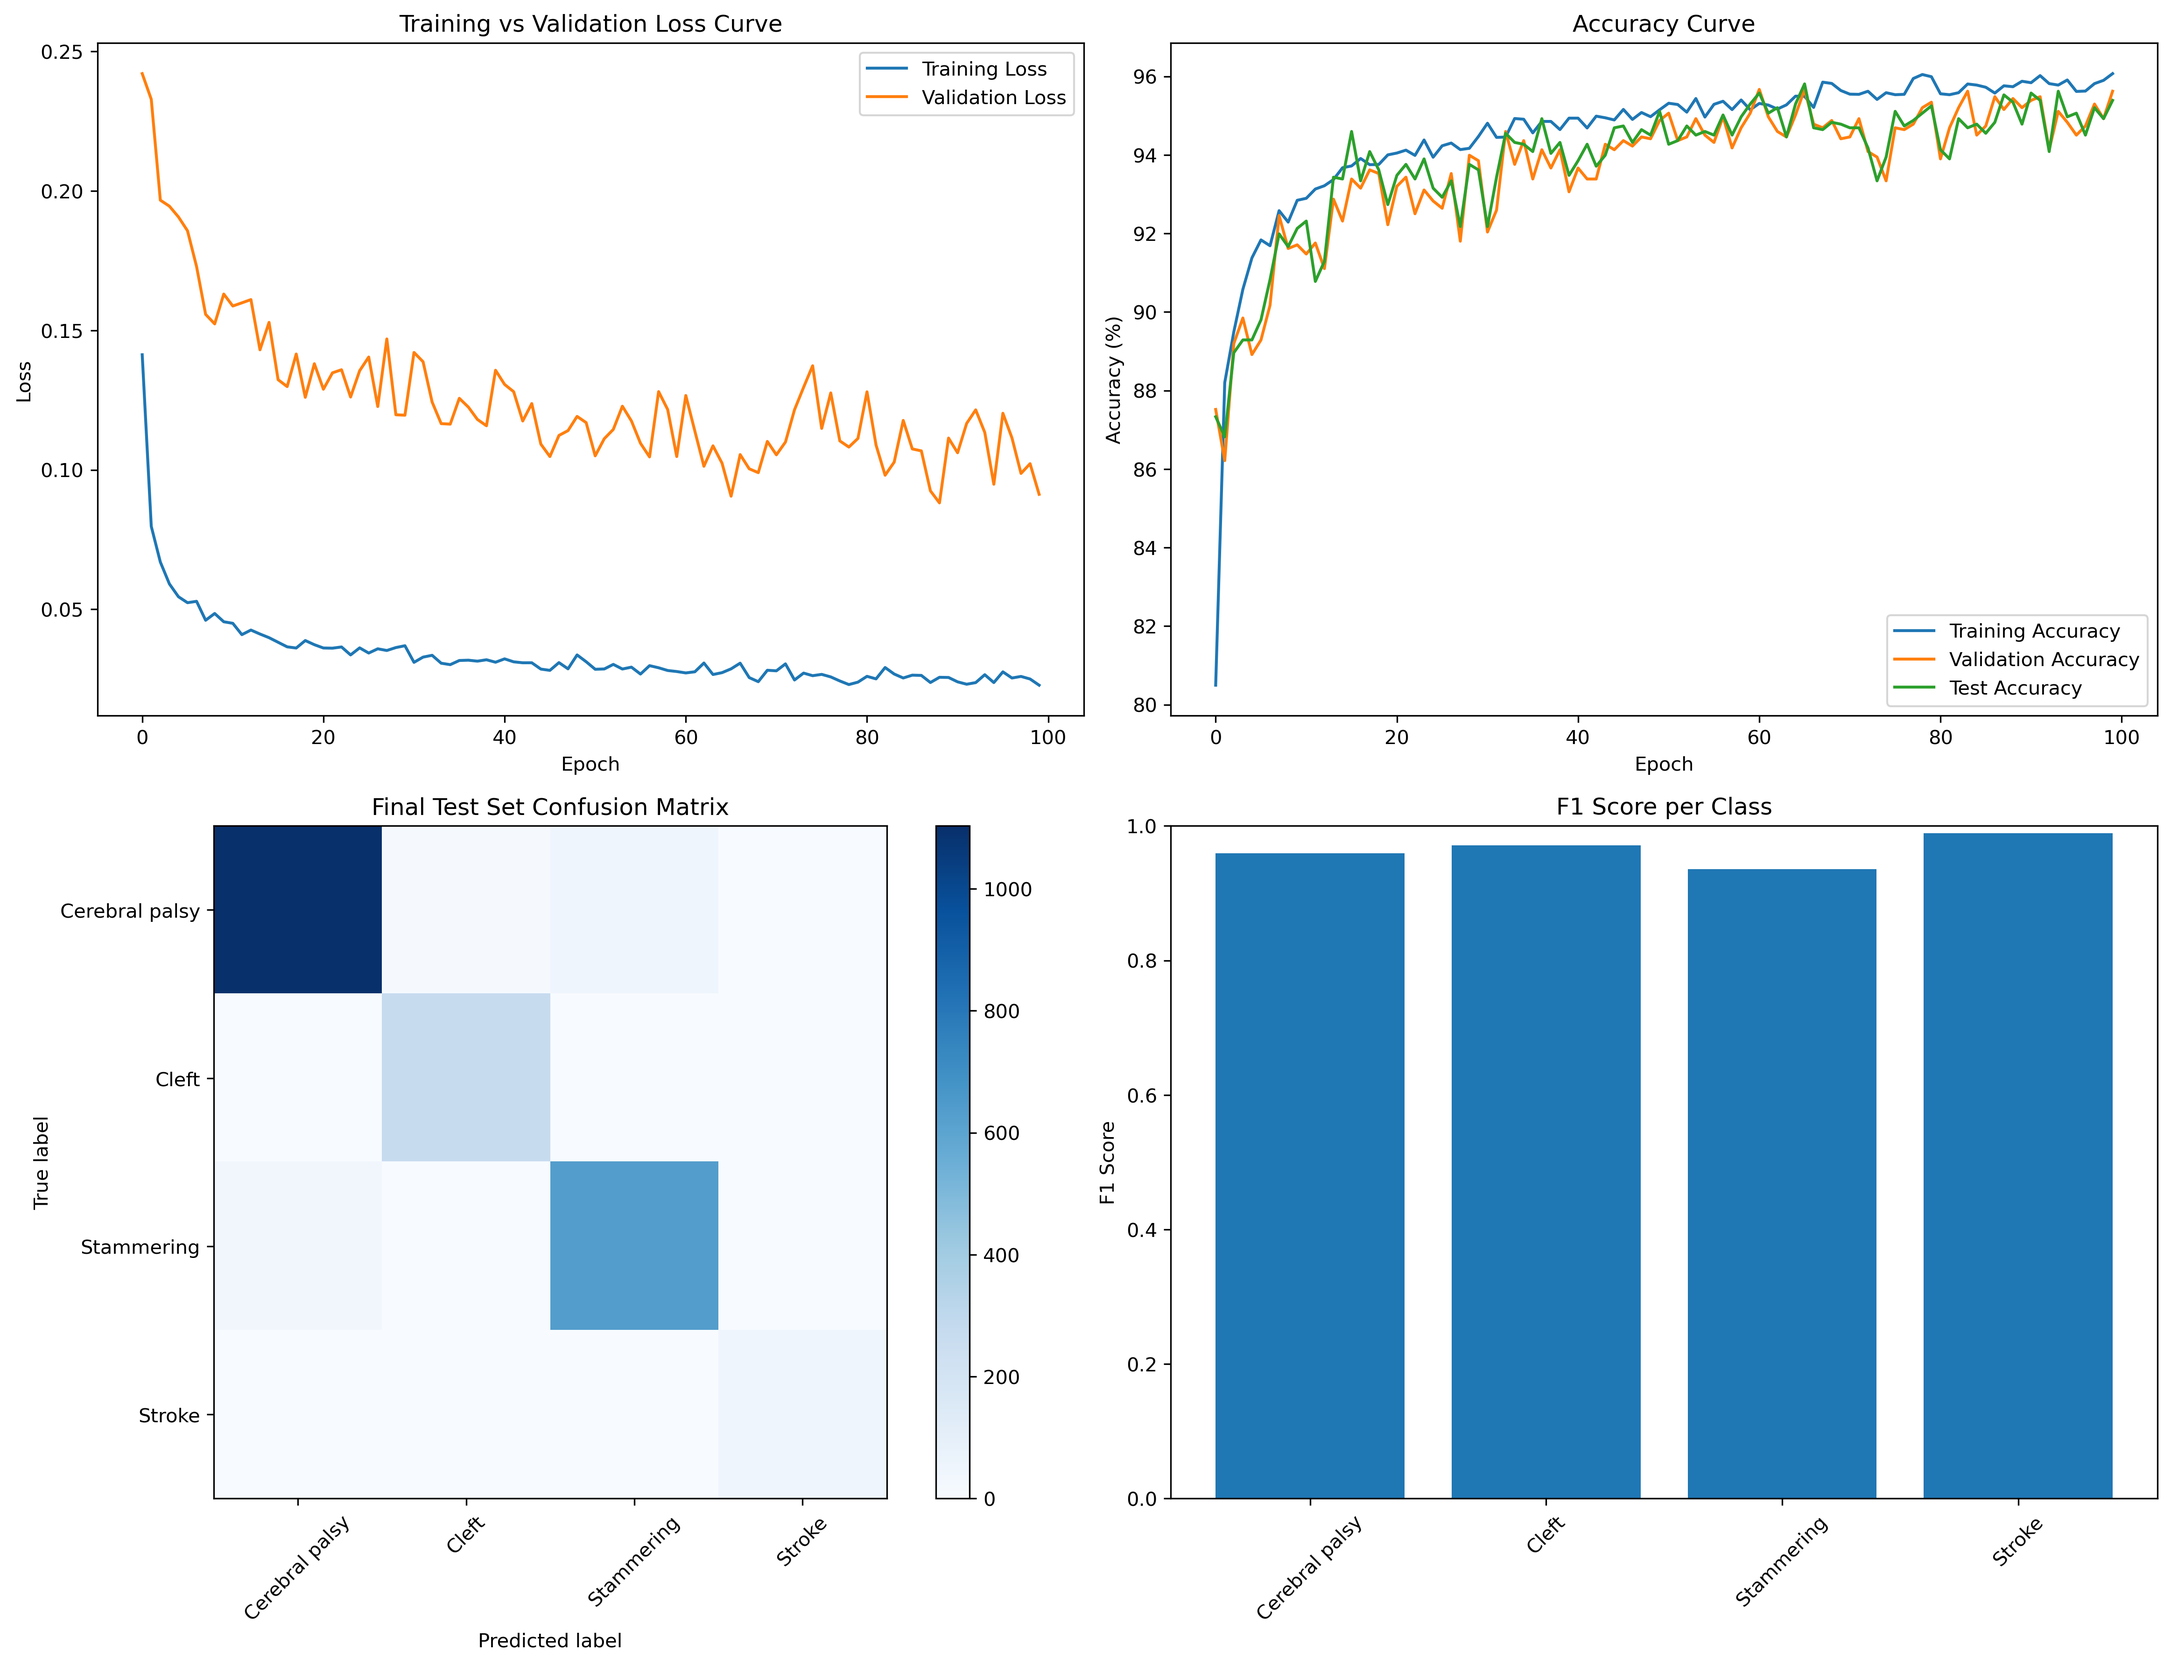
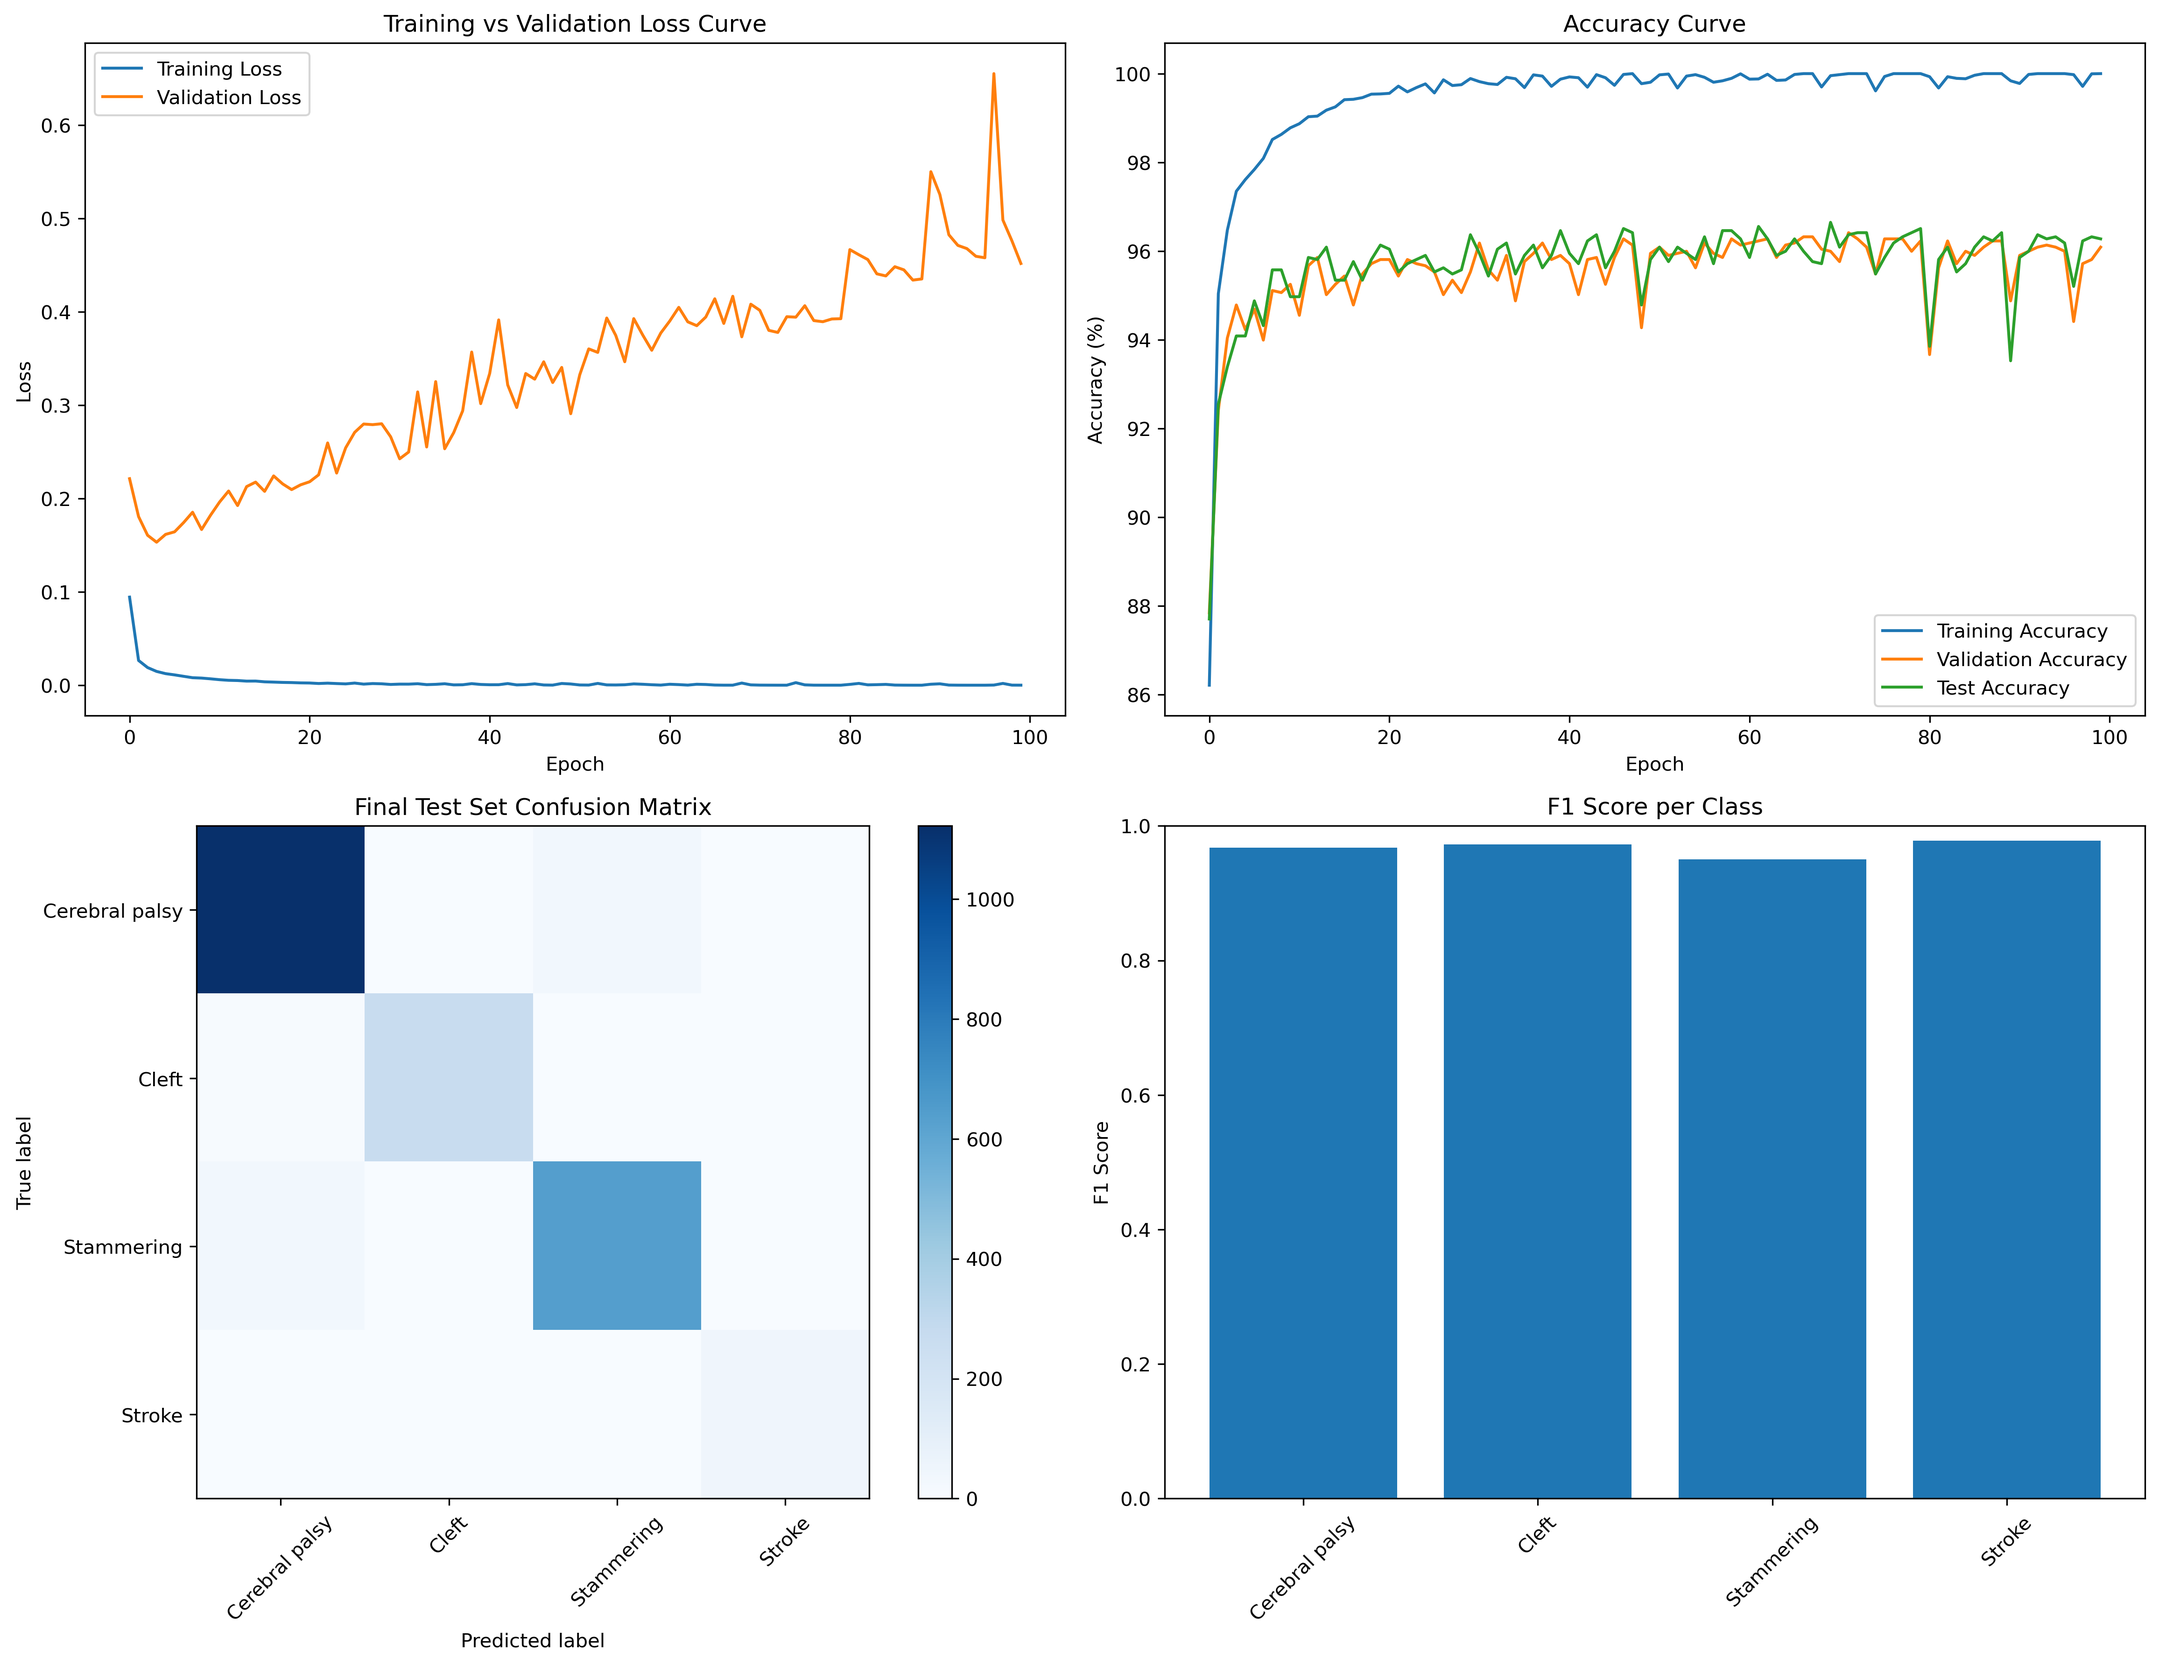
UGA NORMAL MLP

diff --git a/benchmark/mlp/UGAkan/uga_speech_classification.py b/benchmark/mlp/UGAkan/uga_speech_classification.py
@@ -178,9 +178,9 @@ class UGADataset(BaseDataset):
         return features, labels
 
 # MLP模型 - 适应四分类任务
-class MLP(nn.Module):
+class MLP_huge(nn.Module):
     def __init__(self, input_dim, hidden_size=128, num_classes=4):
-        super(MLP, self).__init__()
+        super(MLP_huge, self).__init__()
         self.fc1 = nn.Linear(input_dim, hidden_size)
         self.bn1 = nn.BatchNorm1d(hidden_size)
         self.relu = nn.ReLU()
@@ -200,6 +200,20 @@ class MLP(nn.Module):
         x = self.relu(x)
         x = self.dropout2(x)
         x = self.fc3(x)
+        return x
+
+# MLP模型
+class MLP(nn.Module):
+    def __init__(self, input_dim, hidden_size=64,num_classes=4):
+        super(MLP, self).__init__()
+        self.fc1 = nn.Linear(input_dim, hidden_size)
+        self.relu = nn.ReLU()
+        self.fc2 = nn.Linear(hidden_size, num_classes)  # 二分类输出
+
+    def forward(self, x):
+        x = self.fc1(x)
+        x = self.relu(x)
+        x = self.fc2(x)
         return x
 
 # 训练和评估函数
